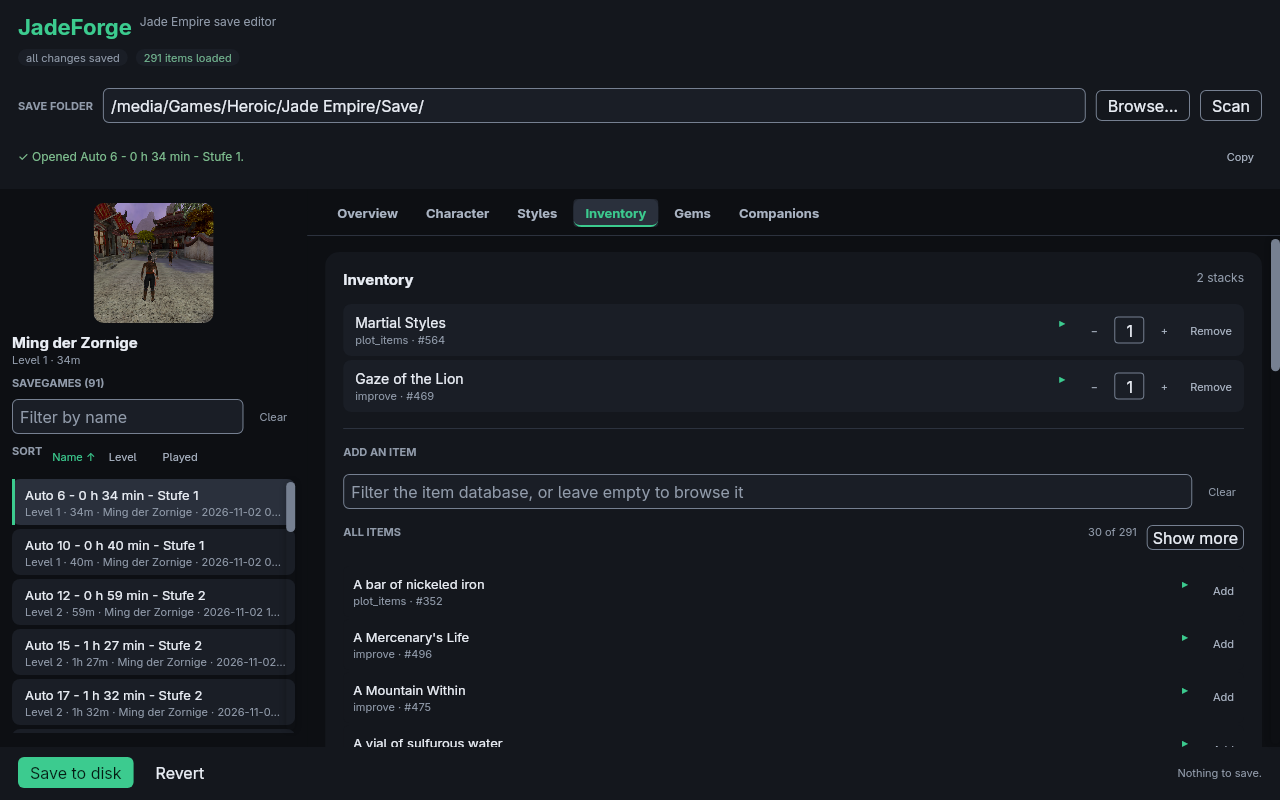
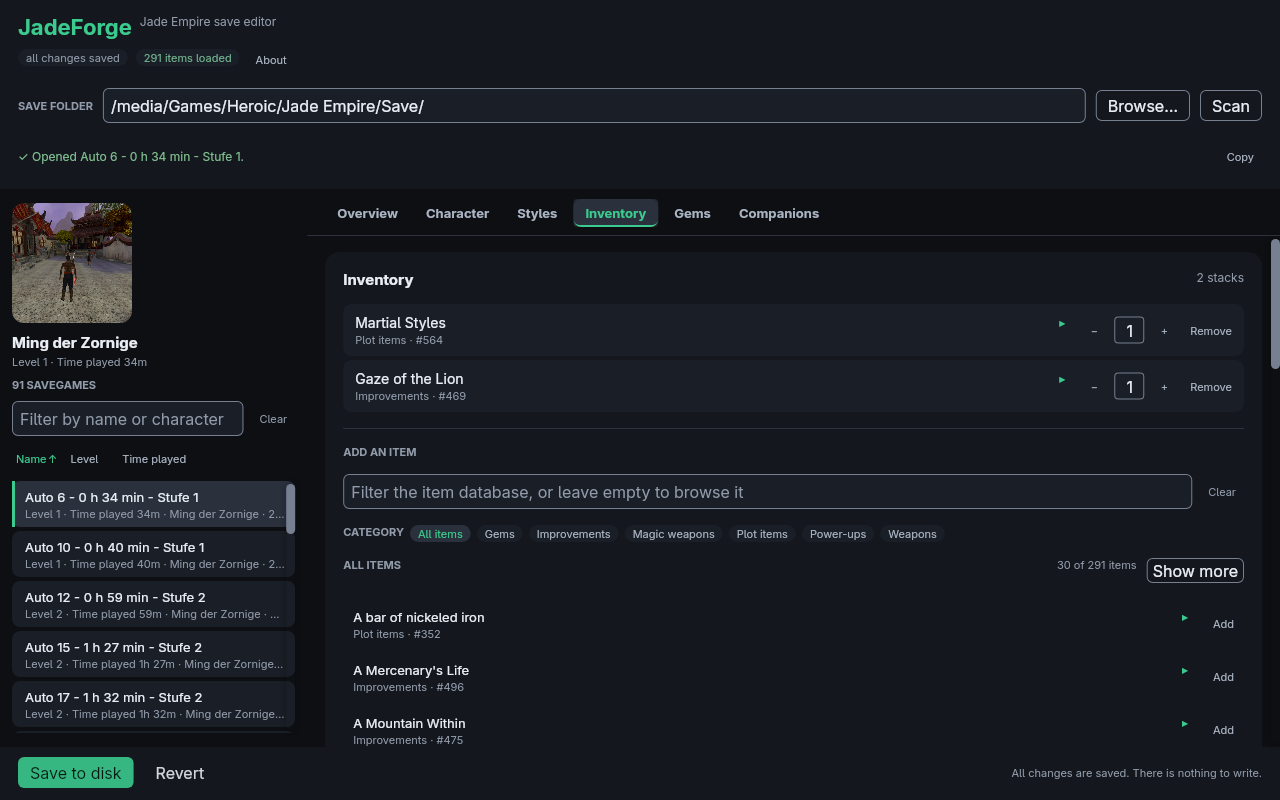
document the p2 ui review and fix snapshot filter targeting
The snapshot example now resolves the active tab own picker filter from the same Tab mapping the UI uses, so Styles, Inventory and Gems can no longer fall back to the sidebar save filter. Tabs without a picker are skipped with a warning.

Record the P2 results, the tracked screenshots and their regeneration commands in docs/UI-REVIEW.md, link P1/P2/P3 from README and CONTRIBUTING, update the changelog, and refresh the tracked screenshots.

diff --git a/crates/jadeforge-gui/examples/snapshot.rs b/crates/jadeforge-gui/examples/snapshot.rs
@@ -10,22 +10,15 @@
 //! ```
 //!
 //! When the tab argument is `all`, one image per tab is written next to
-//! `<OUT.png>`. `--query` types a search term into the active tab's search box.
+//! `<OUT.png>`. `--query` types a search term into the active tab's own picker
+//! filter; the savegame filter in the sidebar is deliberately never used for a
+//! tab that has its own filter.
 
 use std::path::PathBuf;
 
 use freya::prelude::*;
 use freya_testing::TestingRunner;
-use jadeforge_gui::app_with_directory;
-
-const TABS: [&str; 6] = [
-    "Overview",
-    "Character",
-    "Styles",
-    "Inventory",
-    "Gems",
-    "Companions",
-];
+use jadeforge_gui::app::{Tab, app_with_directory};
 
 #[allow(clippy::too_many_lines)] // CLI argument handling and one render path
 fn main() {
@@ -91,22 +84,16 @@ fn main() {
 
     match wanted.as_deref() {
         Some("all") => {
-            for tab in TABS {
-                if let Some(node) = find_label(&test, tab) {
+            for tab in Tab::ALL {
+                if let Some(node) = find_label(&test, tab.label()) {
                     click(&mut test, &node);
                 }
-                if let Some(query) = &query
-                    && let Some(node) = find_paragraph(&test, "Filter ")
-                        .or_else(|| find_paragraph(&test, "Search "))
-                {
-                    click(&mut test, &node);
-                    test.write_text(query.clone());
-                    test.sync_and_update();
-                }
+                type_query(&mut test, tab, query.as_deref());
                 let stem = output
                     .file_stem()
                     .map_or_else(|| "ui".to_owned(), |stem| stem.to_string_lossy().into());
-                let path = output.with_file_name(format!("{stem}-{}.png", tab.to_lowercase()));
+                let path =
+                    output.with_file_name(format!("{stem}-{}.png", tab.label().to_lowercase()));
                 test.render_to_file(&path);
                 println!("wrote {}", path.display());
             }
@@ -124,13 +111,12 @@ fn main() {
             {
                 click(&mut test, &node);
             }
-            if let Some(query) = &query
-                && let Some(node) =
-                    find_paragraph(&test, "Filter ").or_else(|| find_paragraph(&test, "Search "))
-            {
-                click(&mut test, &node);
-                test.write_text(query.clone());
-                test.sync_and_update();
+            match tab_from_label(tab) {
+                Some(tab) => type_query(&mut test, tab, query.as_deref()),
+                None if query.is_some() => {
+                    eprintln!("warning: {tab:?} is not a tab; --query was not applied");
+                }
+                None => {}
             }
             test.render_to_file(&output);
             println!("wrote {}", output.display());
@@ -158,10 +144,41 @@ fn open_first_save(test: &mut TestingRunner) {
     eprintln!("warning: no savegame was found; the snapshot shows the empty state");
 }
 
-fn find_paragraph(test: &TestingRunner, wanted: &str) -> Option<freya_testing::TestingNode> {
+/// Types `query` into the filter that belongs to `tab`.
+///
+/// The lookup is the exact placeholder of that tab's picker, so Styles can no
+/// longer capture the sidebar's savegame filter just because it also starts
+/// with "Filter ". Tabs without a picker are left alone.
+fn type_query(test: &mut TestingRunner, tab: Tab, query: Option<&str>) {
+    let Some(query) = query else {
+        return;
+    };
+    let Some(placeholder) = tab.filter_placeholder() else {
+        eprintln!(
+            "warning: {} has no tab filter; --query was not applied",
+            tab.label()
+        );
+        return;
+    };
+    if let Some(node) = find_paragraph_exact(test, placeholder) {
+        click(test, &node);
+        test.write_text(query.to_owned());
+        test.sync_and_update();
+    }
+}
+
+/// Resolves a tab label to its [`Tab`].
+fn tab_from_label(label: &str) -> Option<Tab> {
+    Tab::ALL
+        .into_iter()
+        .find(|tab| tab.label().eq_ignore_ascii_case(label))
+}
+
+/// Finds an input paragraph by its exact text (a placeholder or value).
+fn find_paragraph_exact(test: &TestingRunner, wanted: &str) -> Option<freya_testing::TestingNode> {
     test.find(|node, element| {
         let paragraph = Paragraph::try_downcast(element)?;
-        paragraph.to_string().contains(wanted).then_some(node)
+        (paragraph.to_string() == wanted).then_some(node)
     })
 }
 

diff --git a/docs/UI-REVIEW.md b/docs/UI-REVIEW.md
@@ -1,8 +1,13 @@
 # Desktop UI review: status and remaining work
 
-**Reviewed:** 2026-11-05, P1 follow-up 2026-11-06 · **Base:** `main` at `6e1d4b8`
+**Reviewed:** 2026-11-05, P1 follow-up 2026-11-06, P2 polish 2026-11-06 · **Base:** `main` at `491163c`
 **Scope:** the Freya 0.5 desktop UI in `crates/jadeforge-gui`, the session state it renders, and the real 89-savegame corpus.
-**Status:** P0 release blockers are addressed and the P1 follow-ups are implemented and verified on `fix/ui-p1-followups` (the remaining scroll caveat is listed under P1). P2/P3 work is tracked in GitHub issues; the remaining upstream blocker is the missing `Input` label association.
+**Status:** P0 release blockers and the P1 follow-ups are addressed. The P2
+polish is implemented on `fix/ui-p2-polish` and verified with the headless
+suite and snapshots; its native close dialog and folder-picker backend are not
+window-verified because permission was not granted. P3 work remains tracked in
+[#9](https://github.com/mztikk/jade_empire_save_editor/issues/9). The remaining
+upstream blocker is the missing `Input` label association.
 
 ![JadeForge overview](screenshot.png)
 
@@ -61,13 +66,15 @@ Remaining verification caveat for #7:
 
 ### P2: [#8](https://github.com/mztikk/jade_empire_save_editor/issues/8)
 
-Polish after P1:
+Addressed on `fix/ui-p2-polish`:
 
-- Copy and vocabulary: the empty carried-gems hint can read “1 gem”, `ALL STYLES` lists only unlearned styles, `Level`/`Lv`, `Played`, raw categories and `predefined gems` need a pass.
-- Backup discovery/restore, a three-way close dialog, disabled/no-op Save and Revert states.
-- Visual polish: duplicate Overview screenshot, sidebar alignment, preview radius, full-width Overview values, open-folder action, loading states.
-- Guidance/settings: About/version/help, config location, field ranges/units, item category filtering, save-filter placeholder.
-- Tooling/docs: snapshot `--query` targets the first filter (the save filter) instead of the active tab’s filter; document evidence/screenshot maintenance.
+| Area | Result |
+| --- | --- |
+| Copy, counts, vocabulary | Counts use `plural()` with their noun (`30 of 34 styles`, `1 socket`, `0 carried gems`); the amulet hint names the socket count and tier; `ALL STYLES` became `STYLES TO LEARN`; `Lv`, `Played`, `Unlock` and `predefined gems` were replaced by the same wording as the rest of the app; raw `plot_items`/`improve` categories and lower-case style kinds map to friendly labels. |
+| Backups, dialogs, no-op states | The successful save message and Overview card show the exact backup path with copy/open actions and restore instructions; the close guard offers explicit Save / Discard / Cancel; Save and Revert are disabled with an explanation when there is nothing to write or discard, while the success status stays visible; folder-dialog cancellation and unreadable picked paths are reported distinctly. |
+| Visual polish | The duplicate Overview screenshot was removed and the sidebar preview aligns with the identity block at the shared card radius; the glance values are full-width rows at every supported width; the save path has copy/open-folder actions; the first scan has sidebar and editor skeletons and manual scans have a reserved busy indicator in the tab bar. |
+| Guidance and settings | The About page shows the version, config path, remembered save folder and sort order, backup rules and keyboard shortcuts; each character field shows its range and unit and the optional Gold field explains when it is created; the item picker has a category filter; the save filter placeholder names the character name it also matches. |
+| Tooling and documentation | Snapshot `--query` resolves the active tab's own filter instead of the first `Filter ` field; this document has a screenshot/evidence maintenance note; README and CONTRIBUTING link the P1/P2/P3 issues. |
 
 ### P3: [#9](https://github.com/mztikk/jade_empire_save_editor/issues/9)
 
@@ -93,9 +100,38 @@ tracked as an open issue:
 | --- | --- |
 | [#3](https://github.com/mztikk/jade_empire_save_editor/issues/3) | `Input` has no label/labelled-by API; fields are still named by their current value or placeholder, even though captions are exposed as groups. |
 
+## Screenshots and evidence maintenance
+
+The durable evidence in this repository is deliberately small:
+
+- `docs/screenshot.png` is the README hero (Overview at 1280×800).
+- `docs/screenshot-overview.png`, `-character`, `-styles`, `-inventory`,
+  `-gems` and `-companions` are the per-tab evidence at the default size.
+- The review prose, the P1/P2/P3 issue links and the verification records are
+  the rest of the evidence. Working images, recordings and long reports stay in
+  the ignored `scratch/` or outside the repository; they are never committed.
+
+Regenerate the tracked images after a visible layout change from a real save
+folder (the examples use the synthetic fixture when `JADEFORGE_SAVE_DIR` is
+unset):
+
+```sh
+cargo run -p jadeforge-gui --example snapshot -- "$JADEFORGE_SAVE_DIR" docs/screenshot.png all
+cargo run -p jadeforge-gui --example snapshot -- "$JADEFORGE_SAVE_DIR" docs/screenshot.png Overview
+cargo run -p jadeforge-gui --example snapshot -- "$JADEFORGE_SAVE_DIR" scratch/narrow.png Overview --width 900 --height 700
+cargo run -p jadeforge-gui --example snapshot -- "$JADEFORGE_SAVE_DIR" scratch/wide.png all --width 1600 --height 900
+```
+
+`--query <text>` types into the active tab's own picker filter (Inventory,
+Styles or Gems) and refuses to fall back to the sidebar save filter. The
+headless suite asserts the same placeholders, the row geometry, the responsive
+breakpoints and the a11y tree, so a screenshot alone is never the test.
+
 ## Verification
 
-- `just check`: 396 workspace tests passed (1 skipped: the opt-in live suite), clippy and formatting clean after the P1 work (see `docs/COVERAGE.md` for coverage).
+- `just check`: 434 workspace tests passed (1 skipped: the opt-in live suite), clippy, formatting and rustdoc clean after the P2 work (see `docs/COVERAGE.md` for coverage).
+- P2 headless coverage: the empty carried-gems count, amulet summary, `STYLES TO LEARN`, friendly item categories and the category filter, `Level`/`Time played`/available wording, the optional-Gold explanation, field units, the save-filter character match, the About page and its settings, backup surfacing/copy/open actions, no-op Save/Revert, folder-picker cancellation and unreadable paths, loading skeletons and the manual-scan busy slot, full-width overview rows at 900/1280/1600, and the sidebar preview alignment. The snapshot example's filter targeting is covered by the tab-filter unit test and a headless Styles-filter test.
+- Windowed verification for P2: not run, because the user did not grant permission under AGENTS.md rule 13. The native close dialog's Save / Discard / Cancel labels, the actual folder-dialog cancellation backend and the Windows ComCtl32 v6 manifest therefore remain unverified in a real window; the choice mapping and the save-before-close decision table are unit tested, and the manifest is embedded by the existing Windows resource build.
 - Headless coverage of the P1 work: geometry at 1180x760, 900x700 and 1600x900; DPI geometry for 1366x768 at 125 %; scan-keeps-save; dirty content comparison; invalid-form save independence; first-invalid-field focus; focus restoration after removal; target sizes; keyboard scrolling focus; the 89-save render test.
 - `just live`: all six windowed scenarios passed on Wayland with the KWin input backend. The window opened at the configured size, save opening and tab switching, item filtering, keyboard save-list navigation and real frame presentation all worked; the captured frame was written to the ignored `target/live-ui/presented.png`. The two-pass `window_geometry_restarts` scenario opened at the seeded 1000x720, the plugin stored the real rectangle on close, and the relaunch restored 1000x720. Each scenario uses its own settings directory; the two geometry passes deliberately share one.
 - Live screen-reader check: Orca 51.1 (Speech Dispatcher 0.12.1, espeak-ng 1.52) announced the polite scan statuses and the assertive folder error in a manual run. The AT-SPI event log showed the full text with politeness level 1 for the scan messages and level 2 for "The save folder … does not exist …". This closes the P1 status live-region check.

diff --git a/README.md b/README.md
@@ -31,7 +31,7 @@ the game does, verifies the result and keeps a backup of the original.
 - **Inventory** – every stack with its real name and category resolved from
   `items.2da` and `dialog.tlk`. Stack sizes can be changed, items removed, and
   new items can be added from the game's item database, which is browsable in
-  full and searchable by name or template. Rows always show the same
+  full, filterable by category and searchable by name or template. Rows always show the same
   `category · #id` (items) and `template · #id` (styles) subtitle. Click a row
   to expand the game's own description.
 - **Companions** – all party members with their level and availability, editable.
@@ -40,26 +40,29 @@ the game does, verifies the result and keeps a backup of the original.
   or removed without touching its effects. The amulet's tier and socket count
   are shown (`Amulet.Type`: 3, 5 or 7 sockets; before the amulet is unlocked the
   tab says so), locked sockets are hidden, empty unlocked sockets are shown as
-  such, and the predefined gems from `gems.2da`
-  can be added to the inventory through a searchable list.
+  such, and gems from the game data in `gems.2da` can be added to the inventory
+  through a searchable list.
 - **Savegame browser** – scans the save folder and shows the game's own
-  screenshot, character name, level and play time for every savegame. The list
-  can be filtered by name and sorted by name, level or play time, with natural
-  ordering (`Auto 2` before `Auto 10`).
+  screenshot, character name, level and time played for every savegame. The
+  list can be filtered by folder or character name and sorted by name, level or
+  time played, with natural ordering (`Auto 2` before `Auto 10`).
 - **Native folder dialog** – **Browse…** opens the operating system's own folder
   dialog (GTK/XDG portal on Linux, Win32 on Windows, `NSOpenPanel` on macOS), so
-  the save folder never has to be typed. The choice is remembered between runs
+  the save folder never has to be typed. Cancelling the dialog and picking an
+  unreadable path are reported distinctly. The choice is remembered between runs
   and no installation path is baked into the program.
-- **Responsive layout** – the sidebar, tab bar and stat rows adapt down to small
-  windows instead of clipping.
+- **Responsive layout** – the sidebar, tab bar and overview values adapt down to
+  small windows instead of clipping, and long scans show a loading state while
+  the save list and editor fill in.
 - **Native icon** – the hammer-and-jade mark is embedded in the window and in
   the Windows executable, staged as a macOS `.app` bundle, and installed with
   the launcher entry and hicolor icons on Linux.
 - **Safe by design** – every write is verified by re-parsing the produced file,
   written atomically through an exclusive temporary file, and guarded by a
-  unique backup. The original permissions are kept, a savegame that changed on
-  disk is reported instead of overwritten, and saving through a symlink keeps
-  the link.
+  unique backup. After a save the Overview shows the exact backup path with
+  copy/open actions, and the About page explains how to restore it. The original
+  permissions are kept, a savegame that changed on disk is reported instead of
+  overwritten, and saving through a symlink keeps the link.
 - **Byte exact when untouched** – opening and saving without changes produces
   the identical file, because only edited blocks are re-serialized.
 - **Command line tool** for scripting, bulk inspection and debugging.
@@ -182,8 +185,11 @@ coverage` writes a line/function summary plus HTML and lcov reports to
    overrides the folder for one run and `JADEFORGE_CONFIG_DIR` moves the
    settings file (useful for portable installs).
 3. Pick a savegame on the left; the game's own screenshot and character summary
-   appear above the list. The list can be sorted by name, level or play time,
-   and that choice (like the save folder) is remembered for the next start.
+   appear above the list. The list can be filtered by folder or character name
+   and sorted by name, level or time played, and that choice (like the save
+   folder) is remembered for the next start. The **About** button shows the
+   version, the settings file, the remembered folder/sort order and the backup
+   rules.
 4. Edit the values on the tabs. Every change (text fields, items, styles,
    gems and companions) is applied to the in-memory savegame immediately; the
    header shows "unsaved changes" and switching away is blocked until you save
@@ -191,8 +197,11 @@ coverage` writes a line/function summary plus HTML and lcov reports to
    fixed.
 5. Press **Save to disk**. A backup called
    `save.sac.jadeforge-backup-<seconds>.<nanos>.<counter>` is created next to
-   the savegame; copy it back over `save.sac` to undo a change. Repeated saves
-   never overwrite an earlier backup.
+   the savegame; the Overview then shows its exact path and a button that opens
+   the folder. Copy it back over `save.sac` to undo a change. Repeated saves
+   never overwrite an earlier backup. The Save and Revert buttons are disabled
+   while there is nothing to write or discard, and the last success stays in the
+   status area.
 
 ## Memory use
 
@@ -399,7 +408,14 @@ JADEFORGE_SAVE_DIR="/path/to/Jade Empire/Save" cargo nextest run --workspace
 
 The headless UI tests render the real component tree with `freya-testing` and
 build a synthetic savegame plus installation when no game data is present, so
-they work on CI machines without a display or the retail game.
+they work on CI machines without a display or the retail game. Render a tab
+without a window with the snapshot example:
+
+```sh
+cargo run -p jadeforge-gui --example snapshot -- "<SAVE_DIR>" docs/screenshot.png all
+# --width 900 / --height 1800 for narrow or tall layouts
+# --query viper types into the active tab's own filter (Items, Styles or Gems)
+```
 
 The windowed suite is the second feedback loop: it launches the real application
 through `freya-winit`, opens a real Wayland window and drives it with real
@@ -419,6 +435,18 @@ See [AGENTS.md](AGENTS.md) for the development guidelines,
 [SECURITY.md](SECURITY.md) for vulnerability reporting and
 [docs/ARCHITECTURE.md](docs/ARCHITECTURE.md) for the crate layout. User-visible
 changes are listed in [CHANGELOG.md](CHANGELOG.md).
+
+## UI review and roadmap
+
+The desktop UI review and its evidence live in
+[docs/UI-REVIEW.md](docs/UI-REVIEW.md). The follow-up work is tracked in the
+issue tracker:
+
+- P0 release blockers: [#5](https://github.com/mztikk/jade_empire_save_editor/pull/5) (merged)
+- P1 follow-ups: [#7](https://github.com/mztikk/jade_empire_save_editor/issues/7)
+- P2 polish, including the copy, backup, About/settings and item-category work:
+  [#8](https://github.com/mztikk/jade_empire_save_editor/issues/8)
+- P3 strategic work: [#9](https://github.com/mztikk/jade_empire_save_editor/issues/9)
 
 ## Status
 

diff --git a/CHANGELOG.md b/CHANGELOG.md
@@ -54,6 +54,15 @@ All notable changes are documented here. The format follows
   savegame's item `Type`, and style rows show the level, weapon count, icon and
   weapon resource names and the time spent from the style struct instead of
   only numeric ids.
+- P2 desktop-UI polish: the successful-save backup path is surfaced on the
+  Overview with copy/open actions and restore instructions, the close guard
+  offers explicit Save / Discard / Cancel, Save and Revert disable themselves
+  when there is nothing to do, and folder-dialog cancellation is reported
+  separately from an unreadable path.
+- An About/help page with the application version, settings file, remembered
+  save folder and sort order, backup rules and keyboard shortcuts; a category
+  filter for the 291-row item picker; field ranges and units (plus the optional
+  Gold field rule) in the character form.
 
 ### Changed
 
@@ -65,6 +74,21 @@ All notable changes are documented here. The format follows
 - A repository rule now bans putting backticked commands or prose into a
   double-quoted shell argument, after a PR-body quoting mistake executed
   commands.
+- P2 copy and vocabulary: counts carry their noun through the shared `plural()`
+  helper, the style picker heading is `STYLES TO LEARN`, `Lv`/`Played`/`Unlock`/
+  `predefined gems` use the same words as the rest of the UI, raw item
+  categories and style kinds map to friendly labels, and the save filter
+  placeholder names the character name it also matches.
+- The Overview no longer duplicates the sidebar savegame screenshot; the
+  sidebar preview aligns with the identity block at the shared card radius; the
+  glance values are full-width rows instead of fixed cells; the save folder can
+  be opened from the Overview and About pages.
+- Initial scans show sidebar and editor skeletons, manual scans show a reserved
+  busy indicator in the tab bar, and the snapshot example's `--query` targets
+  the active tab's own filter instead of the sidebar save filter.
+- `docs/UI-REVIEW.md` records the P2 results and documents which screenshots are
+  tracked and how to regenerate them; README and CONTRIBUTING link the
+  P1/P2/P3 issues.
 - `just install` now installs `jadeforge-cli` alongside the `jadeforge` GUI
   binary, so a source install provides both tools.
 

diff --git a/CONTRIBUTING.md b/CONTRIBUTING.md
@@ -55,6 +55,21 @@ user, and only when the headless UI suite cannot cover the change or the bug is
 in the real window. See [AGENTS.md](AGENTS.md) rule 13 and
 [docs/LIVE-UI.md](docs/LIVE-UI.md).
 
+## UI review work
+
+The desktop UI review lives in [docs/UI-REVIEW.md](docs/UI-REVIEW.md); read it
+before changing the shell, sidebar or a tab, and keep its status table and
+screenshots current. The follow-up checklists are tracked as
+[P1](https://github.com/mztikk/jade_empire_save_editor/issues/7),
+[P2](https://github.com/mztikk/jade_empire_save_editor/issues/8) and
+[P3](https://github.com/mztikk/jade_empire_save_editor/issues/9) issues. The P0
+work was merged in
+[#5](https://github.com/mztikk/jade_empire_save_editor/pull/5).
+
+UI changes are verified with the headless suite and the snapshot example at
+900, 1280 and 1600 px; the windowed suite is never part of the routine
+workflow (see [AGENTS.md](AGENTS.md) rule 13).
+
 ## Pull requests
 
 - Open the pull request from the task branch; `main` receives only merges.

diff --git a/AGENTS.md b/AGENTS.md
@@ -39,8 +39,9 @@ JADEFORGE_CONFIG_DIR="$(mktemp -d)" cargo nextest run --workspace
 
 # Render the UI into a PNG without a window (screenshots, layout debugging)
 cargo run -p jadeforge-gui --example snapshot -- "<SAVE_DIR>" docs/screenshot.png [TAB|all]
-# Add `--height 1800 --query viper` for tall layouts and search results,
-# `--width 900` to check narrow windows.
+# Add `--height 1800 --query viper` for tall layouts and filter results;
+# `--query` targets the active tab's own picker filter (Items, Styles or Gems),
+# never the sidebar save filter. `--width 900` checks narrow windows.
 ```
 
 The same commands are available through `just` (see the `justfile`): `just
